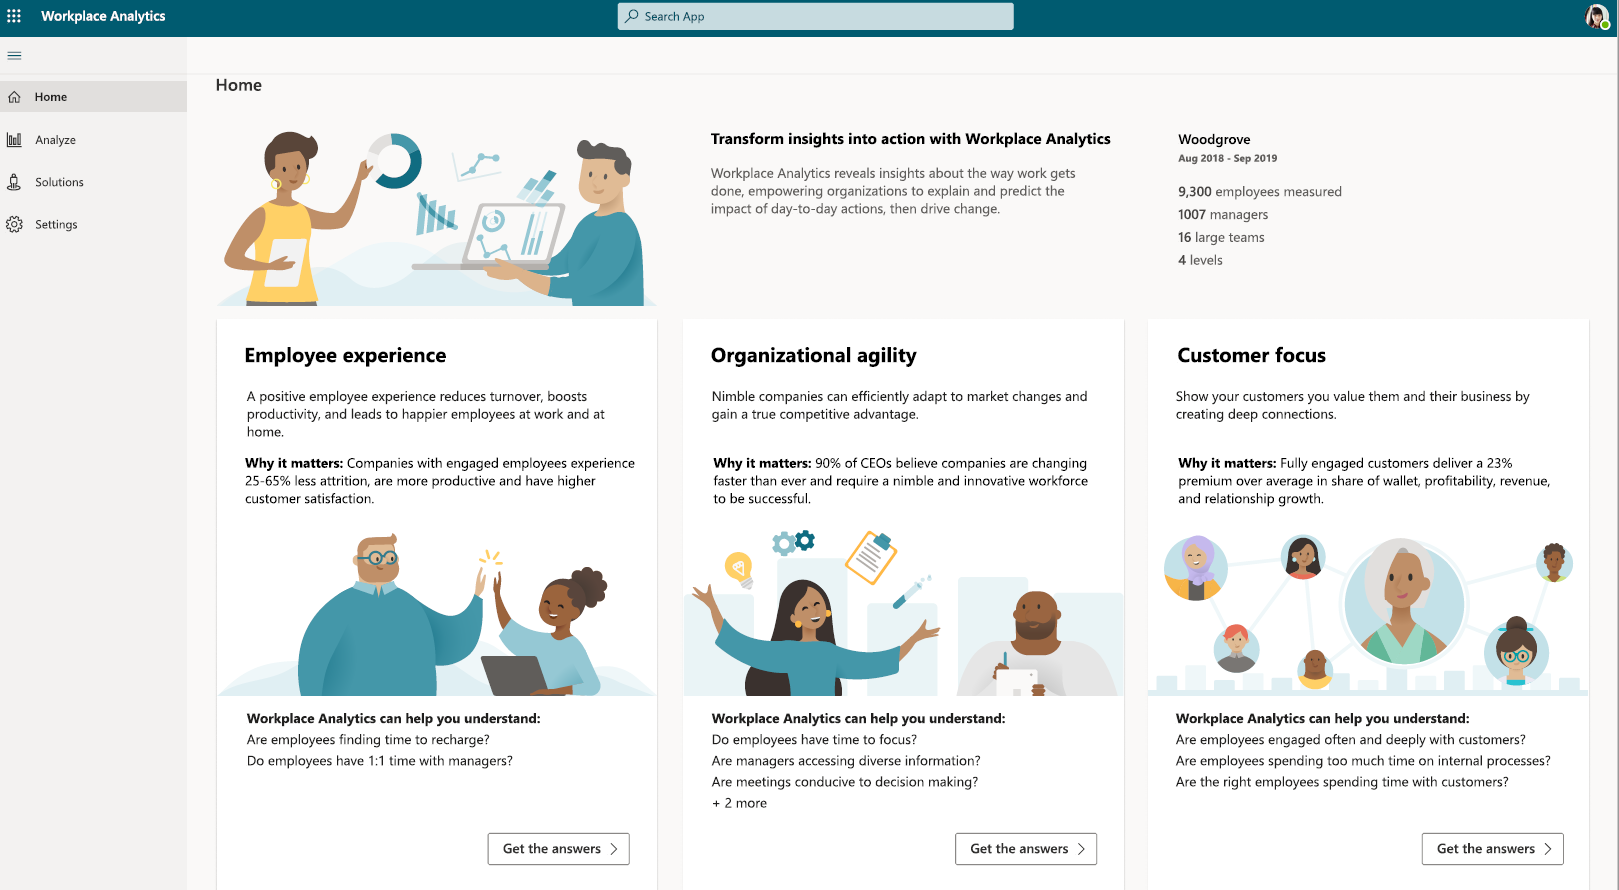
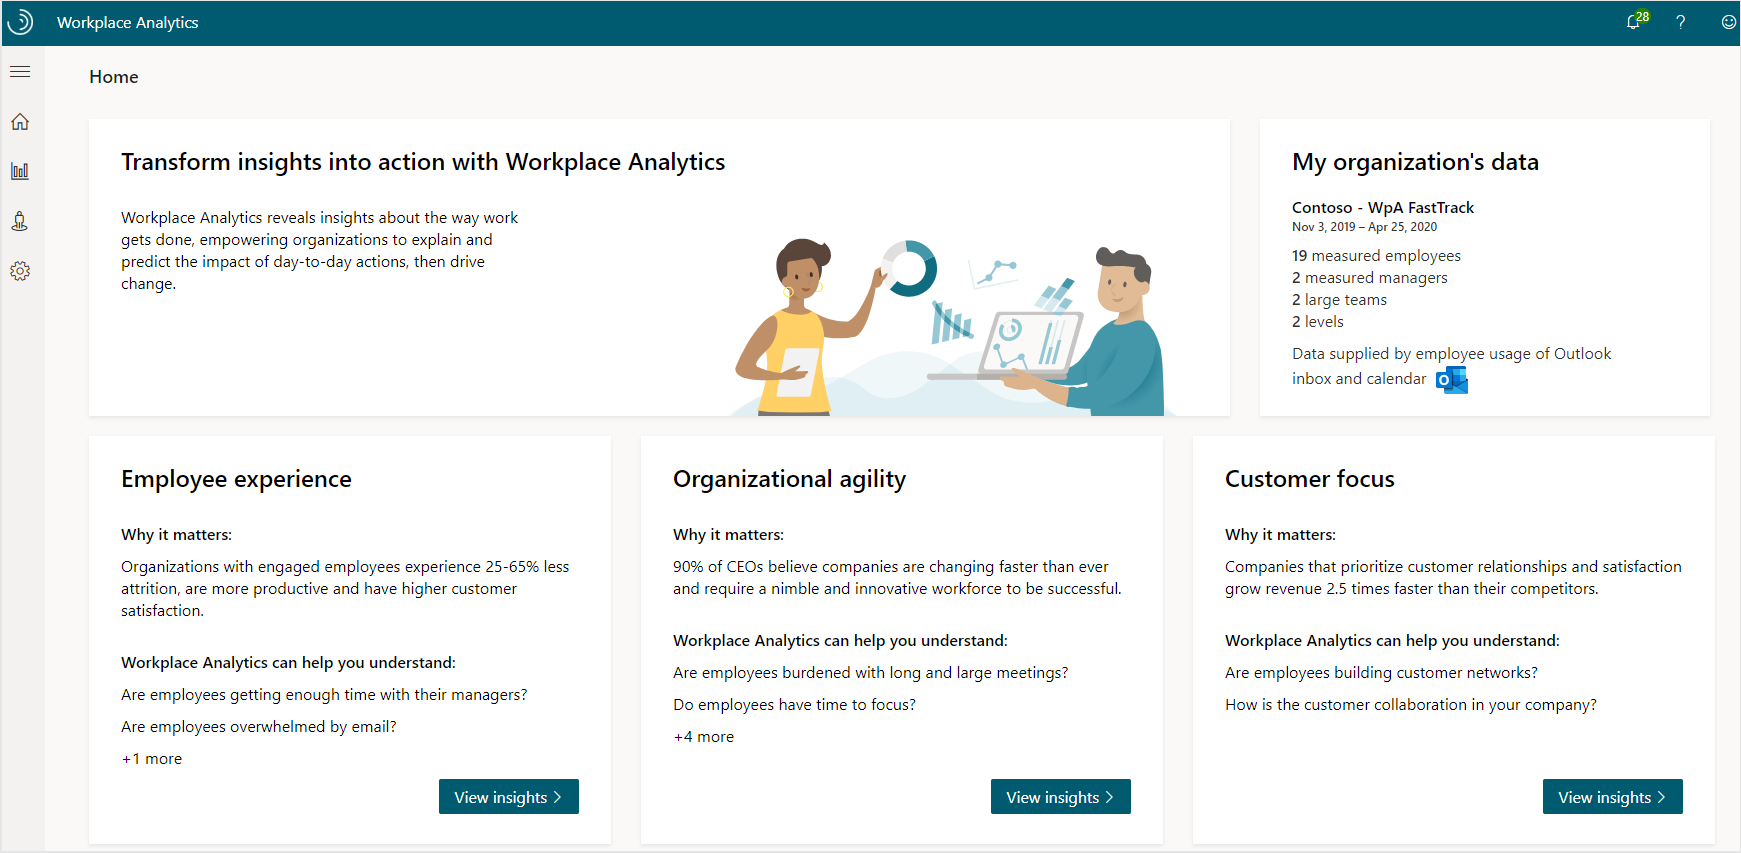
minor
edits for new UI changes

diff --git a/WorkplaceAnalytics/Use/home-page.md b/WorkplaceAnalytics/Use/home-page.md
@@ -13,19 +13,19 @@ ms.prod: wpa
 
 As a business leader, an analyst, or a program manager, you can use these pages to see analysis scope information and research-based behavioral insights into how your organization gets work done.
 
-![Home page](../images/wpa/use/wpa-home-1.png)
+![Home page](../images/wpa/use/wpa-home.png)
 
 ## Analysis scope
 
-The top right of the page shows who is included in this analysis. This data is based on the most recent organizational data uploaded to and processed in Workplace Analytics, which includes the current date range and the number of measured employees, managers, teams, and organizational levels. For more details, see [Organizational data](organizational-data.md).
+The top right of the page shows who is included in this analysis. This data is based on the most recent organizational HR and collaboration data uploaded to and processed in Workplace Analytics, which includes the current date range and the number of measured employees, managers, teams, and organizational levels. For more details, see [Organizational data](organizational-data.md) and [Office 365 data](office-365-data.md).
 
 ## Employee experience
 
-A positive employee experience reduces turnover, boosts productivity, and leads to happier employees.
+Research shows that happy employees help boost productivity and reduce turnover. These insights and suggestions can help you maintain positive employee experiences, such as evaluating how much time your organization is working after hours on email or instant messages.
 
 For example, are employees routinely getting one-on-one time with their managers? Research shows that employees who get consistent manager coaching are five times more likely to stay engaged, which leads to increased productivity and greater employee retainment.
 
-![Employee experience](../images/wpa/use/employee-exp.png)
+![Employee experience](../images/wpa/use/employee-exp-1.png)
 
 ## Organizational agility
 
@@ -33,7 +33,7 @@ Nimble companies can efficiently adapt to market changes and gain a true competi
 
 For example, do your employees have time to focus on their work? Research shows that employees who have time to focus on deep work can master difficult tasks and produce higher quality work.
 
-![Organizational agility](../images/wpa/use/org-agility.png)
+![Organizational agility](../images/wpa/use/org-agility-1.png)
 
 ## Customer focus
 
@@ -41,7 +41,7 @@ Show your customers you value them and their business by creating deep connectio
 
 For example, are your employees engaged often and deeply with customers? Research shows that fully engaged customers deliver a 23 percent premium over average in share of wallet, profitability, revenue, and relationship growth.
 
-![Customer focus](../images/wpa/use/customer-focus.png)
+![Customer focus](../images/wpa/use/customer-focus-1.png)
 
 ## Supporting evidence and Best practices
 
@@ -65,9 +65,9 @@ As an analyst or program manager, you'll also see an option to **View recommende
 
 ## About the metrics
 
-The following describes the metrics used in each of the business insight questions.
+The following describes how the metrics are calculated to support the behavioral insights for each of the business insight questions.
 
-|Question |Metric description  |
+|Business insight question |Metric description  |
 |---------|--------------------|
 |Are employees getting enough time with their managers? |One-on-one time is the number of meeting hours with only an employee and their manager. To account for various meeting frequencies, the total time is calculated for each employee per month and averaged over a week. |
 |Are employees working after hours? |After-hours work is the number of hours employees spend in meetings and on email outside of working hours. This uses the working hours set in the employee's Outlook calendar settings. |
